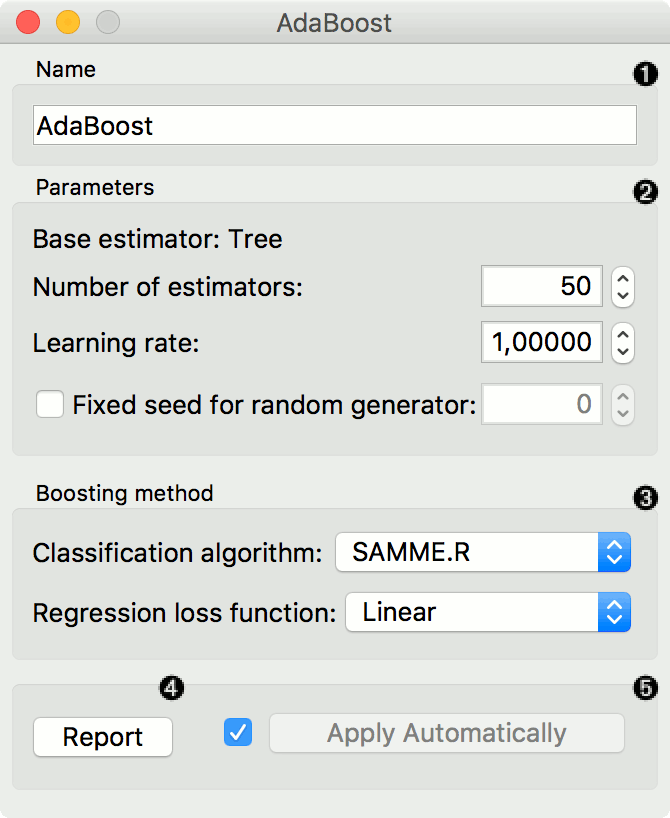
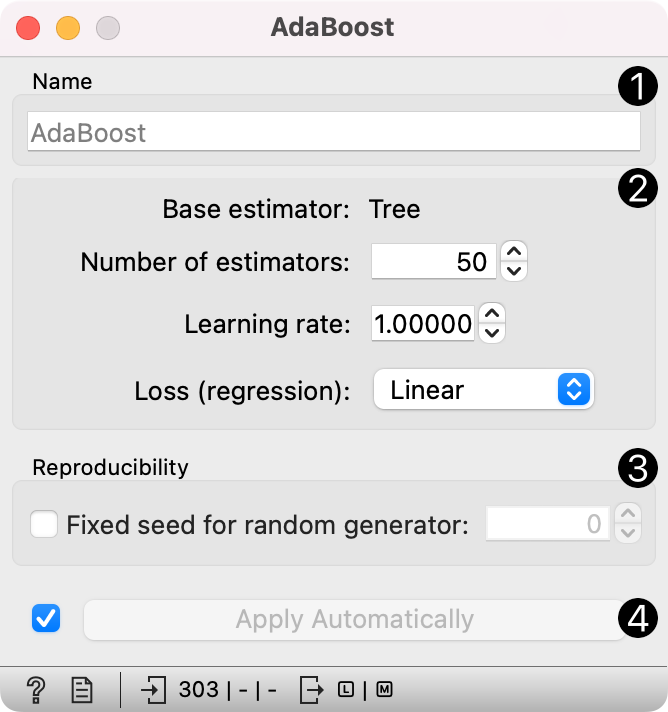
[DOC] AdaBoost

diff --git a/source/widgets/model/adaboost.md b/source/widgets/model/adaboost.md
@@ -18,18 +18,15 @@ The [AdaBoost](https://en.wikipedia.org/wiki/AdaBoost) (short for "Adaptive boos
 
 **AdaBoost** works for both classification and regression.
 
-![](images/AdaBoost-stamped.png)
+![](images/AdaBoost-stamped.png){width=300px}
 
 1. The learner can be given a name under which it will appear in other widgets. The default name is "AdaBoost".
 2. Set the parameters. The base estimator is a tree and you can set:
    - *Number of estimators*
    - *Learning rate*: it determines to what extent the newly acquired information will override the old information (0 = the agent will not learn anything, 1 = the agent considers only the most recent information)
-   - *Fixed seed for random generator*: set a fixed seed to enable reproducing the results.
-3. Boosting method.
-   - *Classification algorithm* (if classification on input): SAMME (updates base estimator's weights with classification results) or SAMME.R (updates base estimator's weight with probability estimates).
-   - *Regression loss function* (if regression on input): Linear (), Square (), Exponential ().
-4. Produce a report.
-5. Click *Apply* after changing the settings. That will put the new learner in the output and, if the training examples are given, construct a new model and output it as well. To communicate changes automatically tick *Apply Automatically*.
+   - *Loss (regression)*: Regression loss function (if regression on input). It can be linear, square, or exponential.
+3. *Fixed seed for random generator*: set a fixed seed to enable reproducing the results.
+4. Click *Apply* after changing the settings. That will put the new learner in the output and, if the training examples are given, construct a new model and output it as well. To communicate changes automatically tick *Apply Automatically*.
 
 Preprocessing
 -------------
@@ -43,13 +40,9 @@ AdaBoost uses default preprocessing when no other preprocessors are given. It ex
 
 To remove default preprocessing, connect an empty [Preprocess](../data/preprocess.md) widget to the learner.
 
-Examples
---------
+Example
+-------
 
-For classification, we loaded the *iris* dataset. We used *AdaBoost*, [Tree](../model/tree.md) and [Logistic Regression](../model/logisticregression.md) and evaluated the models' performance in [Test & Score](../evaluate/testandscore.md).
+We loaded the *iris* dataset with the [File](../data/file.md) widget. We used *AdaBoost* to boost the [Random Forest](../model/randomforest.md) model. We compare and evaluate the models' performance in [Test & Score](../evaluate/testandscore.md).
 
-![](images/AdaBoost-classification.png)
-
-For regression, we loaded the *housing* dataset, sent the data instances to two different models (**AdaBoost** and [Tree](../model/tree.md)) and output them to the [Predictions](../evaluate/predictions.md) widget.
-
-![](images/AdaBoost-regression.png)
+![](images/AdaBoost-Example1.png)
